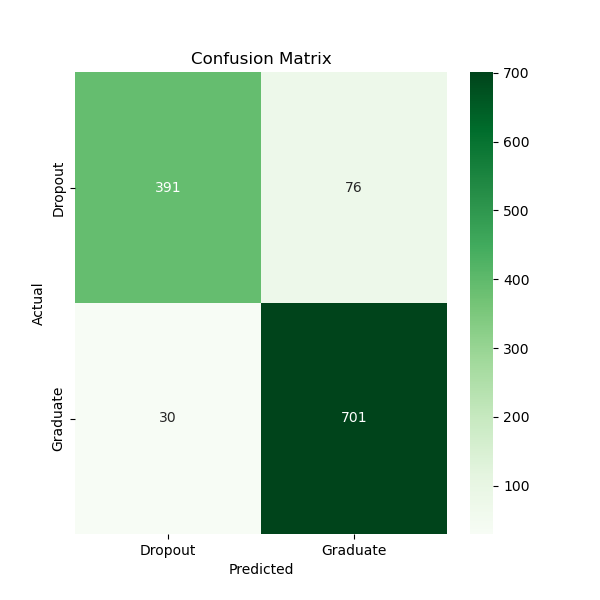
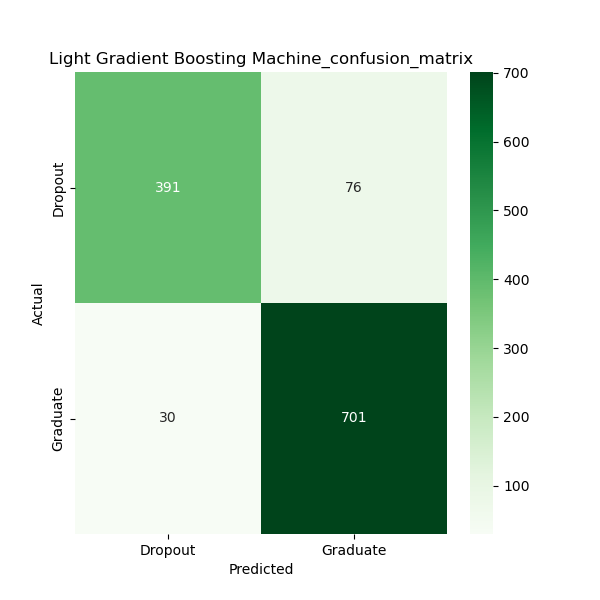
update the confusion matrixes

Changed region(s): [[0.09, 0.09, 0.78, 0.12]]

diff --git a/scripts/test_models.py b/scripts/test_models.py
@@ -28,7 +28,7 @@ def plot_confusion_matrix(matrix: np.ndarray, classes: list, filename: str) -> p
     sns.heatmap(matrix, annot=True, fmt="d", cmap="Greens", xticklabels=classes, yticklabels=classes)
     plt.xlabel('Predicted')
     plt.ylabel('Actual')
-    plt.title('Confusion Matrix')
+    plt.title(f'{filename}')
 
     if filename:
         plt.savefig(f'plots/{filename}.png', format='png')
